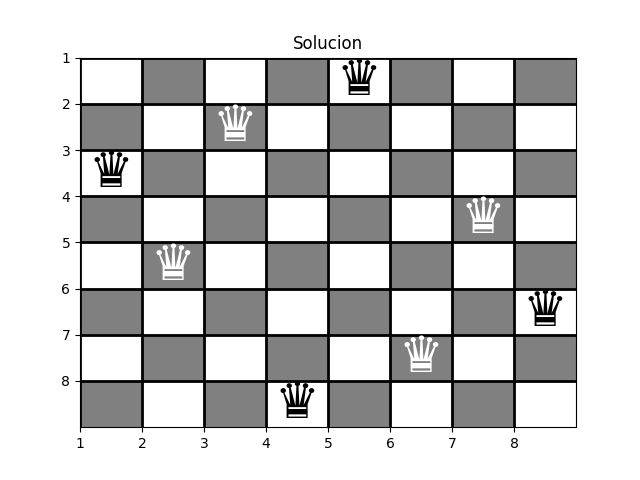
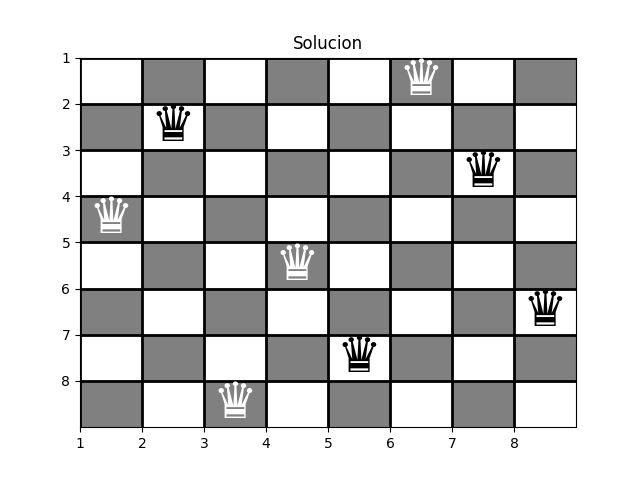
perceptron, red neuronal

diff --git a/eight_queens/board.py b/eight_queens/board.py
@@ -17,31 +17,34 @@ def funcion_de_aptitud(cromosoma):
 def seleccion(poblacion):
     seleccionados = []
     aptitudes = [funcion_de_aptitud(cromosoma) for cromosoma in poblacion]
+    print("Aptitudes: ", aptitudes)
     aptitud_total = sum(aptitudes)
     probabilidades = [aptitud / aptitud_total for aptitud in aptitudes]
+    print("Probabilidades: ", probabilidades)
     for _ in range(len(poblacion)):
         seleccionados.append(random.choices(poblacion, weights=probabilidades)[0])
     return seleccionados
 
 def cruzamiento(padre1, padre2):
     hijo1, hijo2 = padre1[:], padre2[:]
-    punto_cruce = random.randint(1, 6)
+    punto_cruce = random.randint(1, 8)
+
     segmento_hijo1 = padre2[punto_cruce:punto_cruce+2]
     segmento_hijo2 = padre1[punto_cruce:punto_cruce+2]
-
+    print("Punto de cruce:", punto_cruce, "Segemento 1: ",len(segmento_hijo1),segmento_hijo1, "Segemento 2: ",len(segmento_hijo2), segmento_hijo2)
 
     hijo1 = [x for x in hijo1 if x not in segmento_hijo1]
     hijo2 = [x for x in hijo2 if x not in segmento_hijo2]
-
+    print("Hijo 1", hijo1, "Hijo 2", hijo2)
     hijo1[punto_cruce:punto_cruce] = segmento_hijo1
     hijo2[punto_cruce:punto_cruce] = segmento_hijo2
 
-
+    print("Nueva generacion: ",[hijo1, hijo2])
     return [hijo1, hijo2]
 
 def reemplazo(poblacion, nueva_poblacion):
-    poblacion.sort(key=funcion_de_aptitud, reverse=True)
-    nueva_poblacion.sort(key=funcion_de_aptitud, reverse=True)
+    poblacion.sort(key=funcion_de_aptitud)
+    nueva_poblacion.sort(key=funcion_de_aptitud)
     return nueva_poblacion[:len(poblacion)]
 
 def algoritmo_genetico(tamanio_poblacion, generaciones):
@@ -51,7 +54,7 @@ def algoritmo_genetico(tamanio_poblacion, generaciones):
     for generacion in range(generaciones):
         seleccionados = seleccion(poblacion)
         nueva_poblacion = []
-        for i in range(0, len(seleccionados), 2):
+        for i in range(0,len(seleccionados),2):
             padre1, padre2 = seleccionados[i], seleccionados[i + 1]
             nueva_poblacion.extend(cruzamiento(padre1, padre2))
         poblacion = reemplazo(poblacion, nueva_poblacion)
@@ -86,6 +89,6 @@ def graficar_solucion(solucion):
 
 
 solucion = algoritmo_genetico(100, 1000)
-print("Solución encontrada:", solucion)
+print("\n\nSolución encontrada:", solucion)
 print("Aptitud de la solución:", funcion_de_aptitud(solucion))
 graficar_solucion(solucion)

diff --git a/neuronal/perceptron.py b/neuronal/perceptron.py
@@ -1,0 +1,52 @@
+import random
+
+class Perceptron:
+
+    def __init__(self,entradas,salidas):
+        self.w1 = random.random()
+        self.w2 = random.random()
+        self.U = random.random()
+        self.lambda_ = 0.1
+        self.iteraciones = 1000
+        self.umbral_error = 1
+        self.entradas = entradas
+        self.salidas_deseadas = salidas
+
+
+    def funcion_activacion(self, z):
+        return 1 if z >= 0 else 0
+
+    def algorithm(self):
+        for i in range(self.iteraciones):
+            errores_totales = 0
+            for entrada, self.salida_deseada in zip(self.entradas, self.salidas_deseadas):
+                z = self.w1 * entrada[0] + self.w2 * entrada[1] + self.U
+                Y = self.funcion_activacion(z)
+
+                e = self.salida_deseada - Y
+                errores_totales += abs(e)
+
+                if self.salida_deseada != 0:
+                    self.e_porcentual = e / self.salida_deseada * 100
+                else:
+                    self.e_porcentual = e
+
+                diffU = self.lambda_ * e
+                diffW1 = self.lambda_ * e * entrada[0]
+                diffW2 = self.lambda_ * e * entrada[1]
+
+                self.w1 += diffW1
+                self.w2 += diffW2
+                self.U += diffU
+
+            if (errores_totales / len(self.entradas)) * 100 < self.umbral_error:
+                print(
+                    f'Entrenamiento completo en la iteración {i + 1} con un error porcentual promedio de {(errores_totales / len(self.entradas)) * 100:.2f}%')
+                break
+    def test(self):
+        self.algorithm()
+        print("\nPruebas:")
+        for entrada in self.entradas:
+            z = self.w1 * entrada[0] + self.w2 * entrada[1] + self.U
+            Y = self.funcion_activacion(z)
+            print(f'Entrada: {entrada}, Salida Predicha: {Y}')

diff --git a/neuronal/main_perceptron.py b/neuronal/main_perceptron.py
@@ -1,0 +1,16 @@
+from neuronal.perceptron import Perceptron
+
+
+entradas = [[0, 0], [0, 1], [1, 0], [1, 1]]
+salida_esperada = [0, 1, 1, 1]
+
+print("Or")
+perceptron_or = Perceptron(entradas, salida_esperada)
+perceptron_or.test()
+
+print("And")
+entradas = [[0, 0], [0, 1], [1, 0], [1, 1]]
+salida_esperada = [0, 0, 0, 1]
+
+perceptron_and = Perceptron(entradas, salida_esperada)
+perceptron_and.test()
